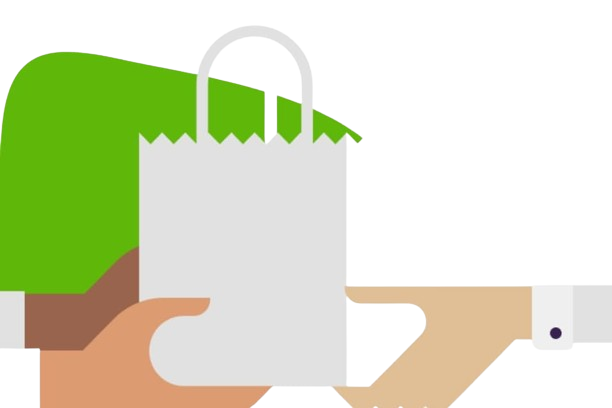
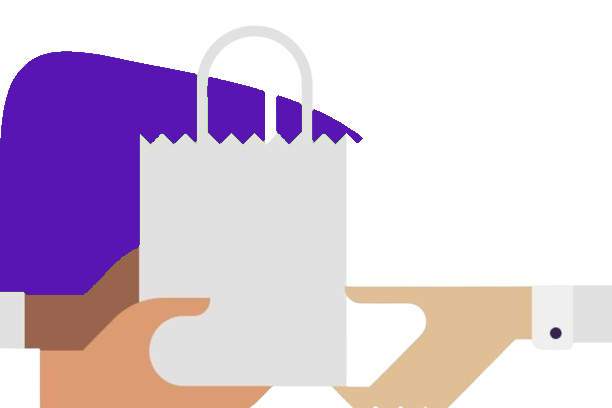
agregado de imagenes nuevas y correcion de otras, modificacion en css

Changed region(s): [[0.0, 0.1176, 0.5899, 0.7353]]

diff --git a/index.html b/index.html
@@ -137,11 +137,10 @@
               <div class="container-grid">
                 <div class="content-grid-1">
                   <div class="content-img-top">
-                    <img
-                      src="https://cdn.prod.website-files.com/647f8f48460e2e63451c6e2a/64ac352dd66a1c29adbbf241_Logo_pro.svg"
-                      loading="lazy" alt="Logotipo Plan Ecommerce Pro Justo" height="50" class="img-grid-1">
+                    <svg  xmlns="http://www.w3.org/2000/svg"  width="24"  height="50"  viewBox="0 0 24 24"  fill="#551ec4"  class="icon icon-tabler icons-tabler-filled icon-tabler-arrow-badge-up"><path stroke="none" d="M0 0h24v24H0z" fill="none"/><path d="M11.375 6.22l-5 4a1 1 0 0 0 -.375 .78v6l.006 .112a1 1 0 0 0 1.619 .669l4.375 -3.501l4.375 3.5a1 1 0 0 0 1.625 -.78v-6a1 1 0 0 0 -.375 -.78l-5 -4a1 1 0 0 0 -1.25 0z" /></svg>
+                    <span>Premium</span>
                   </div>
-                  <h1 class="h1-grid-1">Impulsa tu estrategia </h1>
+                  <h1 class="h1-grid-1">Impulsa tu negocio </h1>
                   <div class="div-h2-grid-1">
                     <h2 class="h2-grid-1">Este Plan es Ideal para negocios con posicionamiento fuerte en el mercado,
                       adaptamos nuestro
@@ -154,7 +153,7 @@
                     <div class="w-layout-grid">
                       <div class="pricing11-plan">
                         <div class="pricing11-content-top">
-                          <div class="content-pricing-1">El plan Pro es</div>
+                          <div class="content-pricing-1">El plan Premium es</div>
                           <div class="content-pricing-2">
                             <div class="title-grid-1">
                               Personalizado
@@ -167,12 +166,6 @@
                                 <div class="div-img-grid-2">
                                   <svg  xmlns="http://www.w3.org/2000/svg"  width="24"  height="24"  viewBox="0 0 24 24"  fill="none"  stroke="#551ec4"  stroke-width="2"  stroke-linecap="round"  stroke-linejoin="round"  class="icon icon-tabler icons-tabler-outline icon-tabler-checkbox"><path stroke="none" d="M0 0h24v24H0z" fill="none"/><path d="M9 11l3 3l8 -8" /><path d="M20 12v6a2 2 0 0 1 -2 2h-12a2 2 0 0 1 -2 -2v-12a2 2 0 0 1 2 -2h9" /></svg>
                                 </div>
-                                <div class="content-list">Costo de despacho dinámico</div>
-                              </div>
-                              <div class="content-list-grid-2">
-                                <div class="div-img-grid-2">
-                                  <svg  xmlns="http://www.w3.org/2000/svg"  width="24"  height="24"  viewBox="0 0 24 24"  fill="none"  stroke="#551ec4"  stroke-width="2"  stroke-linecap="round"  stroke-linejoin="round"  class="icon icon-tabler icons-tabler-outline icon-tabler-checkbox"><path stroke="none" d="M0 0h24v24H0z" fill="none"/><path d="M9 11l3 3l8 -8" /><path d="M20 12v6a2 2 0 0 1 -2 2h-12a2 2 0 0 1 -2 -2v-12a2 2 0 0 1 2 -2h9" /></svg>
-                                </div>
                                 <div>Órdenes ilimitadas</div>
                               </div>
                               <div class="content-list-grid-2">
@@ -180,12 +173,6 @@
                                   <svg  xmlns="http://www.w3.org/2000/svg"  width="24"  height="24"  viewBox="0 0 24 24"  fill="none"  stroke="#551ec4"  stroke-width="2"  stroke-linecap="round"  stroke-linejoin="round"  class="icon icon-tabler icons-tabler-outline icon-tabler-checkbox"><path stroke="none" d="M0 0h24v24H0z" fill="none"/><path d="M9 11l3 3l8 -8" /><path d="M20 12v6a2 2 0 0 1 -2 2h-12a2 2 0 0 1 -2 -2v-12a2 2 0 0 1 2 -2h9" /></svg>
                                 </div>
                                 <div class="content-list">Diseño exclusivos para tu marca</div>
-                              </div>
-                              <div class="content-list-grid-2">
-                                <div class="div-img-grid-2">
-                                  <svg  xmlns="http://www.w3.org/2000/svg"  width="24"  height="24"  viewBox="0 0 24 24"  fill="none"  stroke="#551ec4"  stroke-width="2"  stroke-linecap="round"  stroke-linejoin="round"  class="icon icon-tabler icons-tabler-outline icon-tabler-checkbox"><path stroke="none" d="M0 0h24v24H0z" fill="none"/><path d="M9 11l3 3l8 -8" /><path d="M20 12v6a2 2 0 0 1 -2 2h-12a2 2 0 0 1 -2 -2v-12a2 2 0 0 1 2 -2h9" /></svg>
-                                </div>
-                                <div class="content-list">Sistema de loyalty pro</div>
                               </div>
                               <div class="content-list-grid-2">
                                 <div class="div-img-grid-2">
@@ -227,46 +214,17 @@
         </div>
       </div>
       <div class="row align-items-center">
-        <div class="col-md-12 col-sm-12 pb-50 row align-items-center">
-          <div class="delivery-img wow fadeInUp align-items-center" data-wow-delay=".5s">
+        <div class="div-delivery-img pb-50 ">
+          <div class="delivery-img wow fadeInUp" data-wow-delay=".5s">
             <img sizes="(max-width: 479px) 92vw, (max-width: 767px) 90vw, (max-width: 1919px) 42vw, 760.0000610351562px"
-              srcset="https://cdn.prod.website-files.com/647f8f48460e2e63451c6e2a/64b1bb10c2d06f1241368ff0_ecommerce-Carrito-de-compras-p-500.png 500w, https://cdn.prod.website-files.com/647f8f48460e2e63451c6e2a/64b1bb10c2d06f1241368ff0_ecommerce-Carrito-de-compras-p-800.png 800w, https://cdn.prod.website-files.com/647f8f48460e2e63451c6e2a/64b1bb10c2d06f1241368ff0_ecommerce-Carrito-de-compras.png 900w"
-              src="https://cdn.prod.website-files.com/647f8f48460e2e63451c6e2a/64b1bb10c2d06f1241368ff0_ecommerce-Carrito-de-compras.png"
+              src="./assets/img/Capturas/CheckOut-Completo.png"
               loading="lazy" alt="" class="layout219_image">
           </div>
-          <!-- </div>
-        <div class="col col-md-6 col-sm-12 pb-10">
-          <div class="col-12 pb-40">
-            <div class="single-service wow fadeInUp" data-wow-delay=".2s">
-              <div class="content">
-                <h3>Ofrecemos una experiencia completa para tus clientes en tu sitio web</h3>
-                <p>
-                  - Pago mensual por sucursal o 10% de las ventas <br>
-                  - Órdenes ilimitadas <br>
-                  - Diseño con plantillas web personalizadas (colores y logotipo) <br>
-                  - Optimizado para dispositivos móviles <br>
-                  - 100% autogestionable <br>
-                  - Pasarelas de pagos seguras (Webpay o Transferencia bancaria) <br>
-                  - Métricas y ventas <br>
-                  - Soporte técnico especializado <br>
-                </p>
-              </div>
-            </div>
+          <div class="delivery-img wow fadeInUp" data-wow-delay=".5s">
+            <img sizes="(max-width: 479px) 92vw, (max-width: 767px) 90vw, (max-width: 1919px) 42vw, 760.0000610351562px"
+              src="./assets/img/Capturas/Captura-Carrito.png"
+              loading="lazy" alt="" class="layout219_image">
           </div>
-          <div class="col-12 pb-40">
-            <div class="single-service wow fadeInUp" data-wow-delay=".4s">
-              <div class="content">
-                <h3>Checkout enfocado en la conversión</h3>
-                <p>
-                  Un proceso de pago optimizado para la conversión y que
-                  minimiza las fricciones, facilitando que tus clientes
-                  completen su compra. Nuestro checkout esta enfocado en
-                  reducir la tasa de abandono del carrito y aumenta tus
-                  ventas.
-                </p>
-              </div>
-            </div>
-          </div> -->
         </div>
       </div>
     </div>
@@ -313,8 +271,7 @@
                     Pago único de $699.990 + IVA
                   </h4>
                   <h4>
-                    Oferta de Marzo de $199.990 + IVA
-                  </h4>
+                    Promoción válida por Mayo y Junio <br> $199.990 + IVA
                 </div>
                 <div class="div-button-ventas">
                   <a class="button-ventas" href="https://wa.me/56930835236">Compra ahora</a>

diff --git a/assets/css/main.css b/assets/css/main.css
@@ -1680,8 +1680,11 @@ p {
   padding: 15% 10%;
 }
 .content-img-top {
-  display: block;
   unicode-bidi: isolate;
+  display: flex;
+  align-items: center;
+  color: var(--negro);
+  font-weight: 700;
 }
 .img-grid-1 {
   max-width: 25%;
@@ -2017,12 +2020,12 @@ p {
 }
 .img-mark {
   margin-left: 3.5%;
-  border-top: 3px solid #96a9ff;
+  border-top: 3px solid  var(--morado-oscuro);
 }
 @media (min-width: 470px) {
   .img-mark {
     margin-left: 0%;
-    border-top: 3px solid #96a9ff;
+    border-top: 3px solid var(--morado-oscuro);
   }
 }
 .func-section .func-content h1 {
@@ -2642,9 +2645,18 @@ p {
     margin-bottom: 25px;
   }
 }
-
+.div-delivery-img {
+  display: flex;
+  justify-content: center;
+  align-items: center;
+}
 .delivery-img img {
-  width: 100%;
+  width: 50%;
+}
+.delivery-img{
+  align-items: center;
+  display: flex;
+  justify-content: center;
 }
 
 .testimonial-section .testimonial-wrapper {
